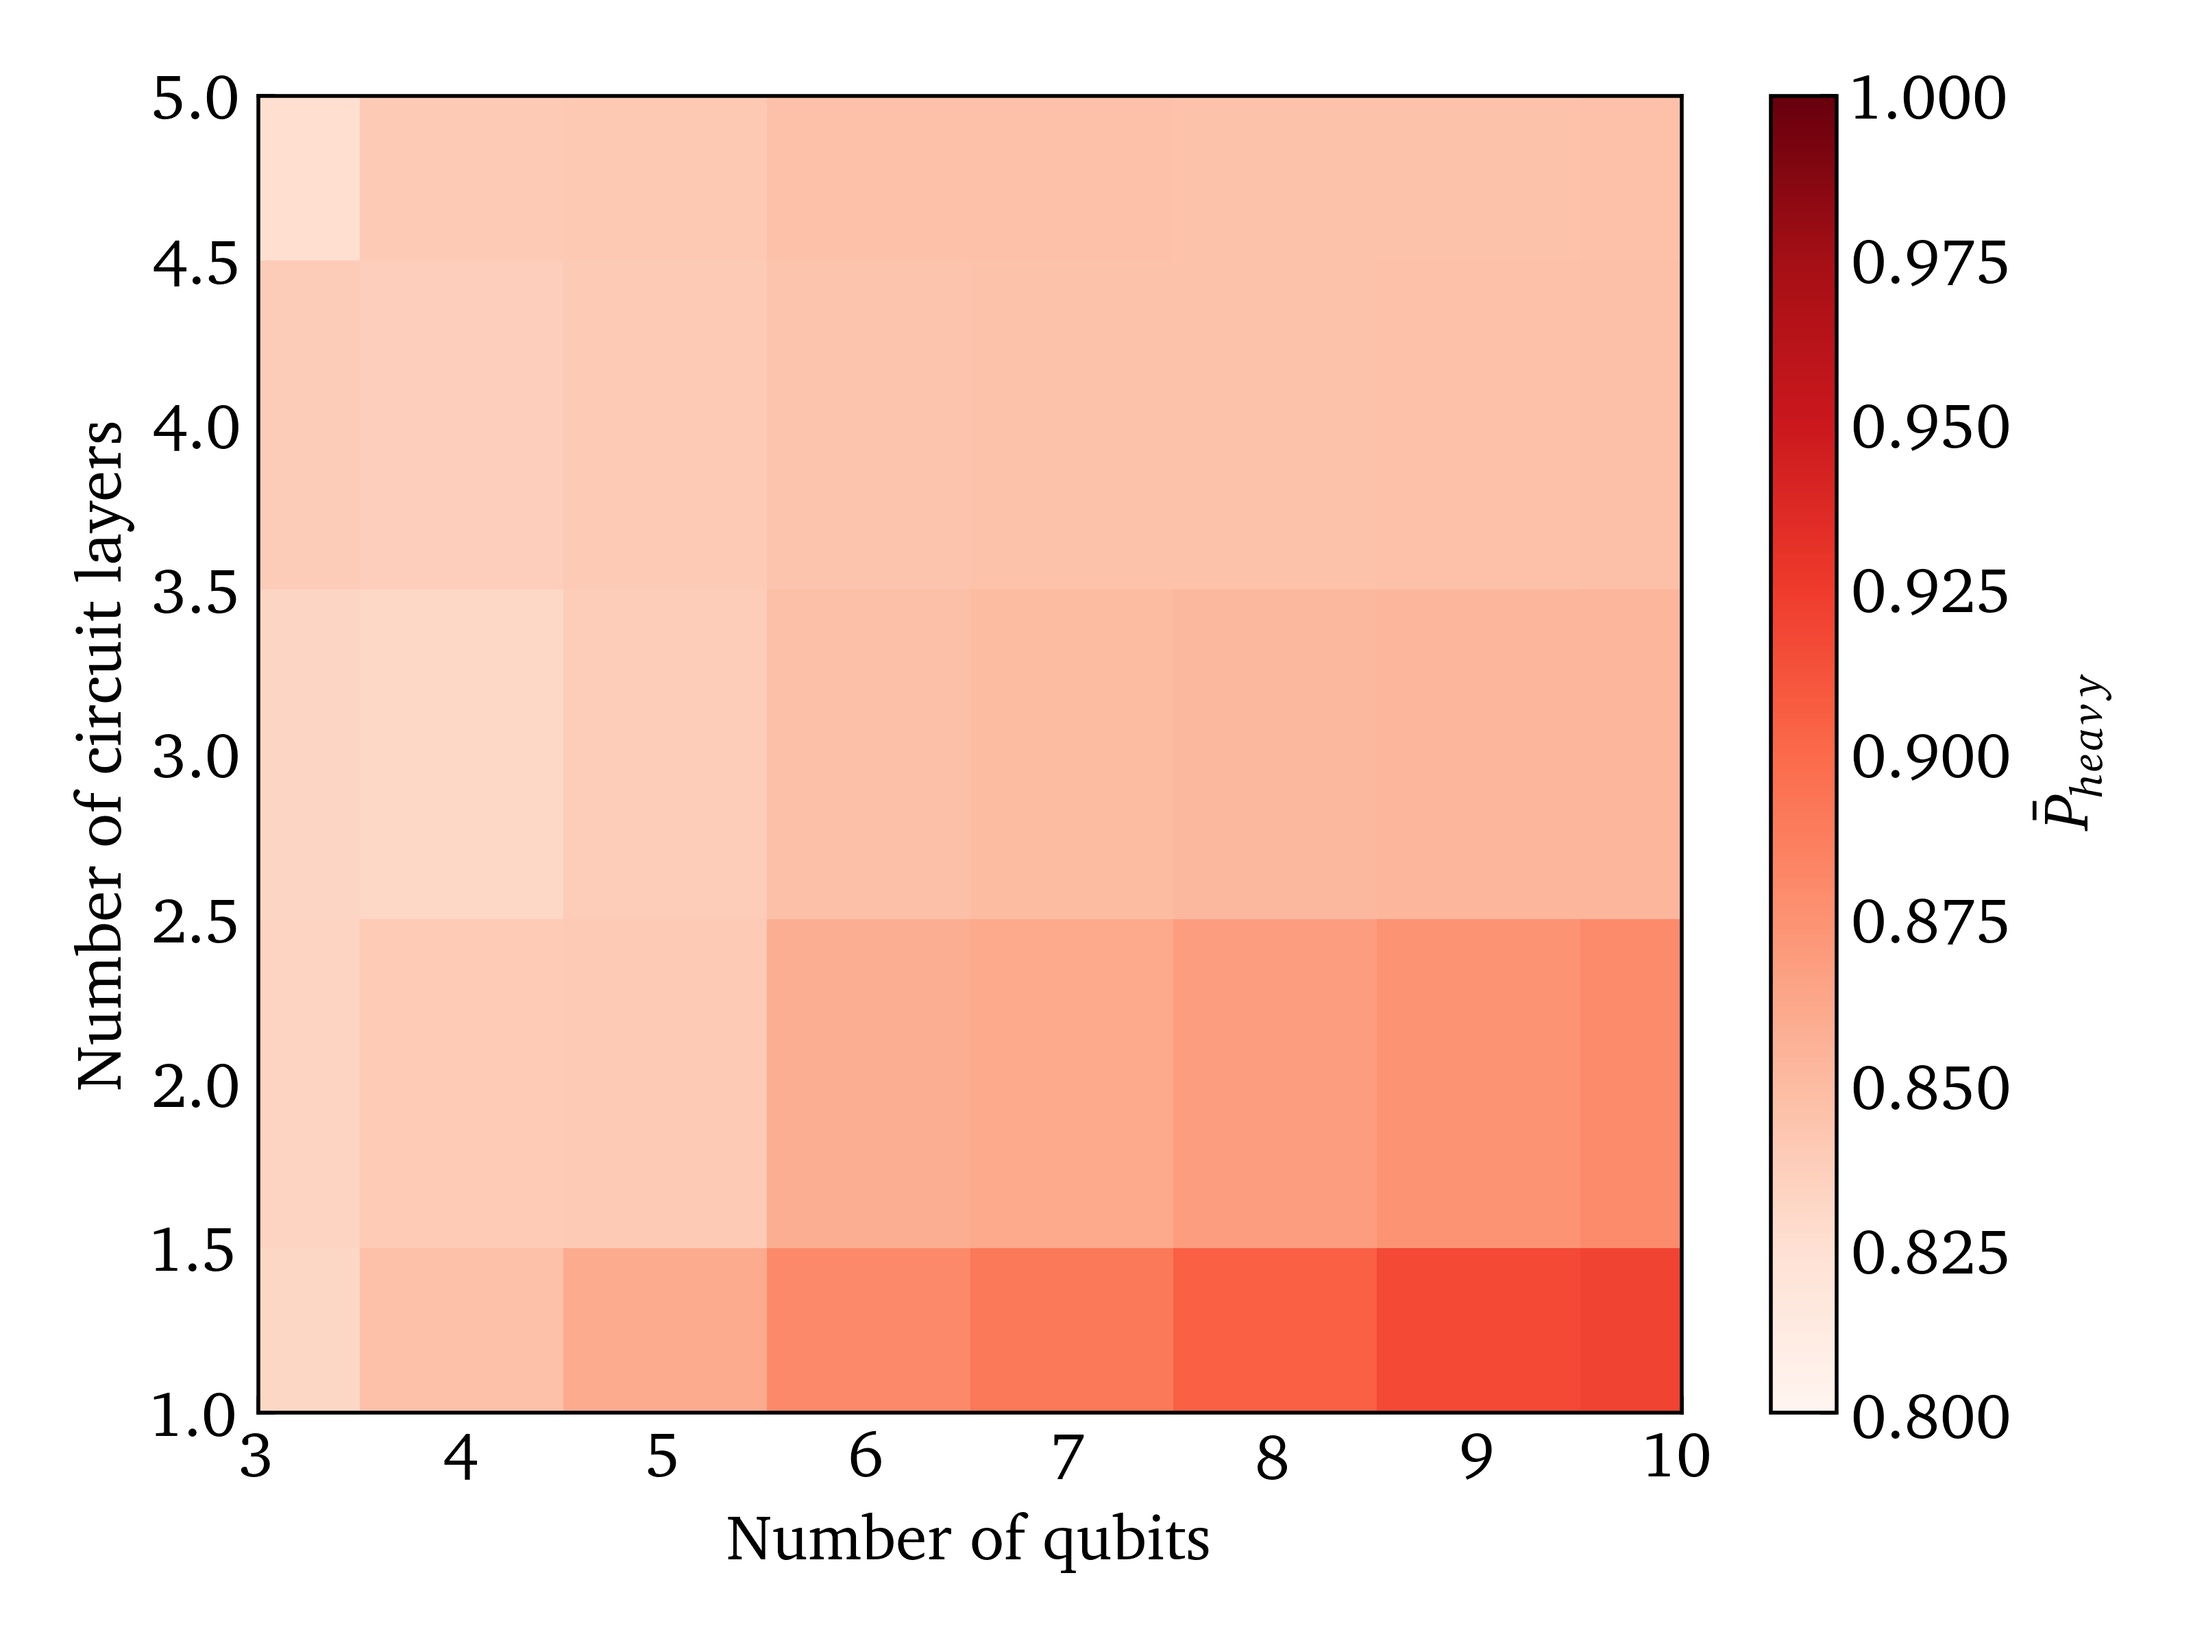
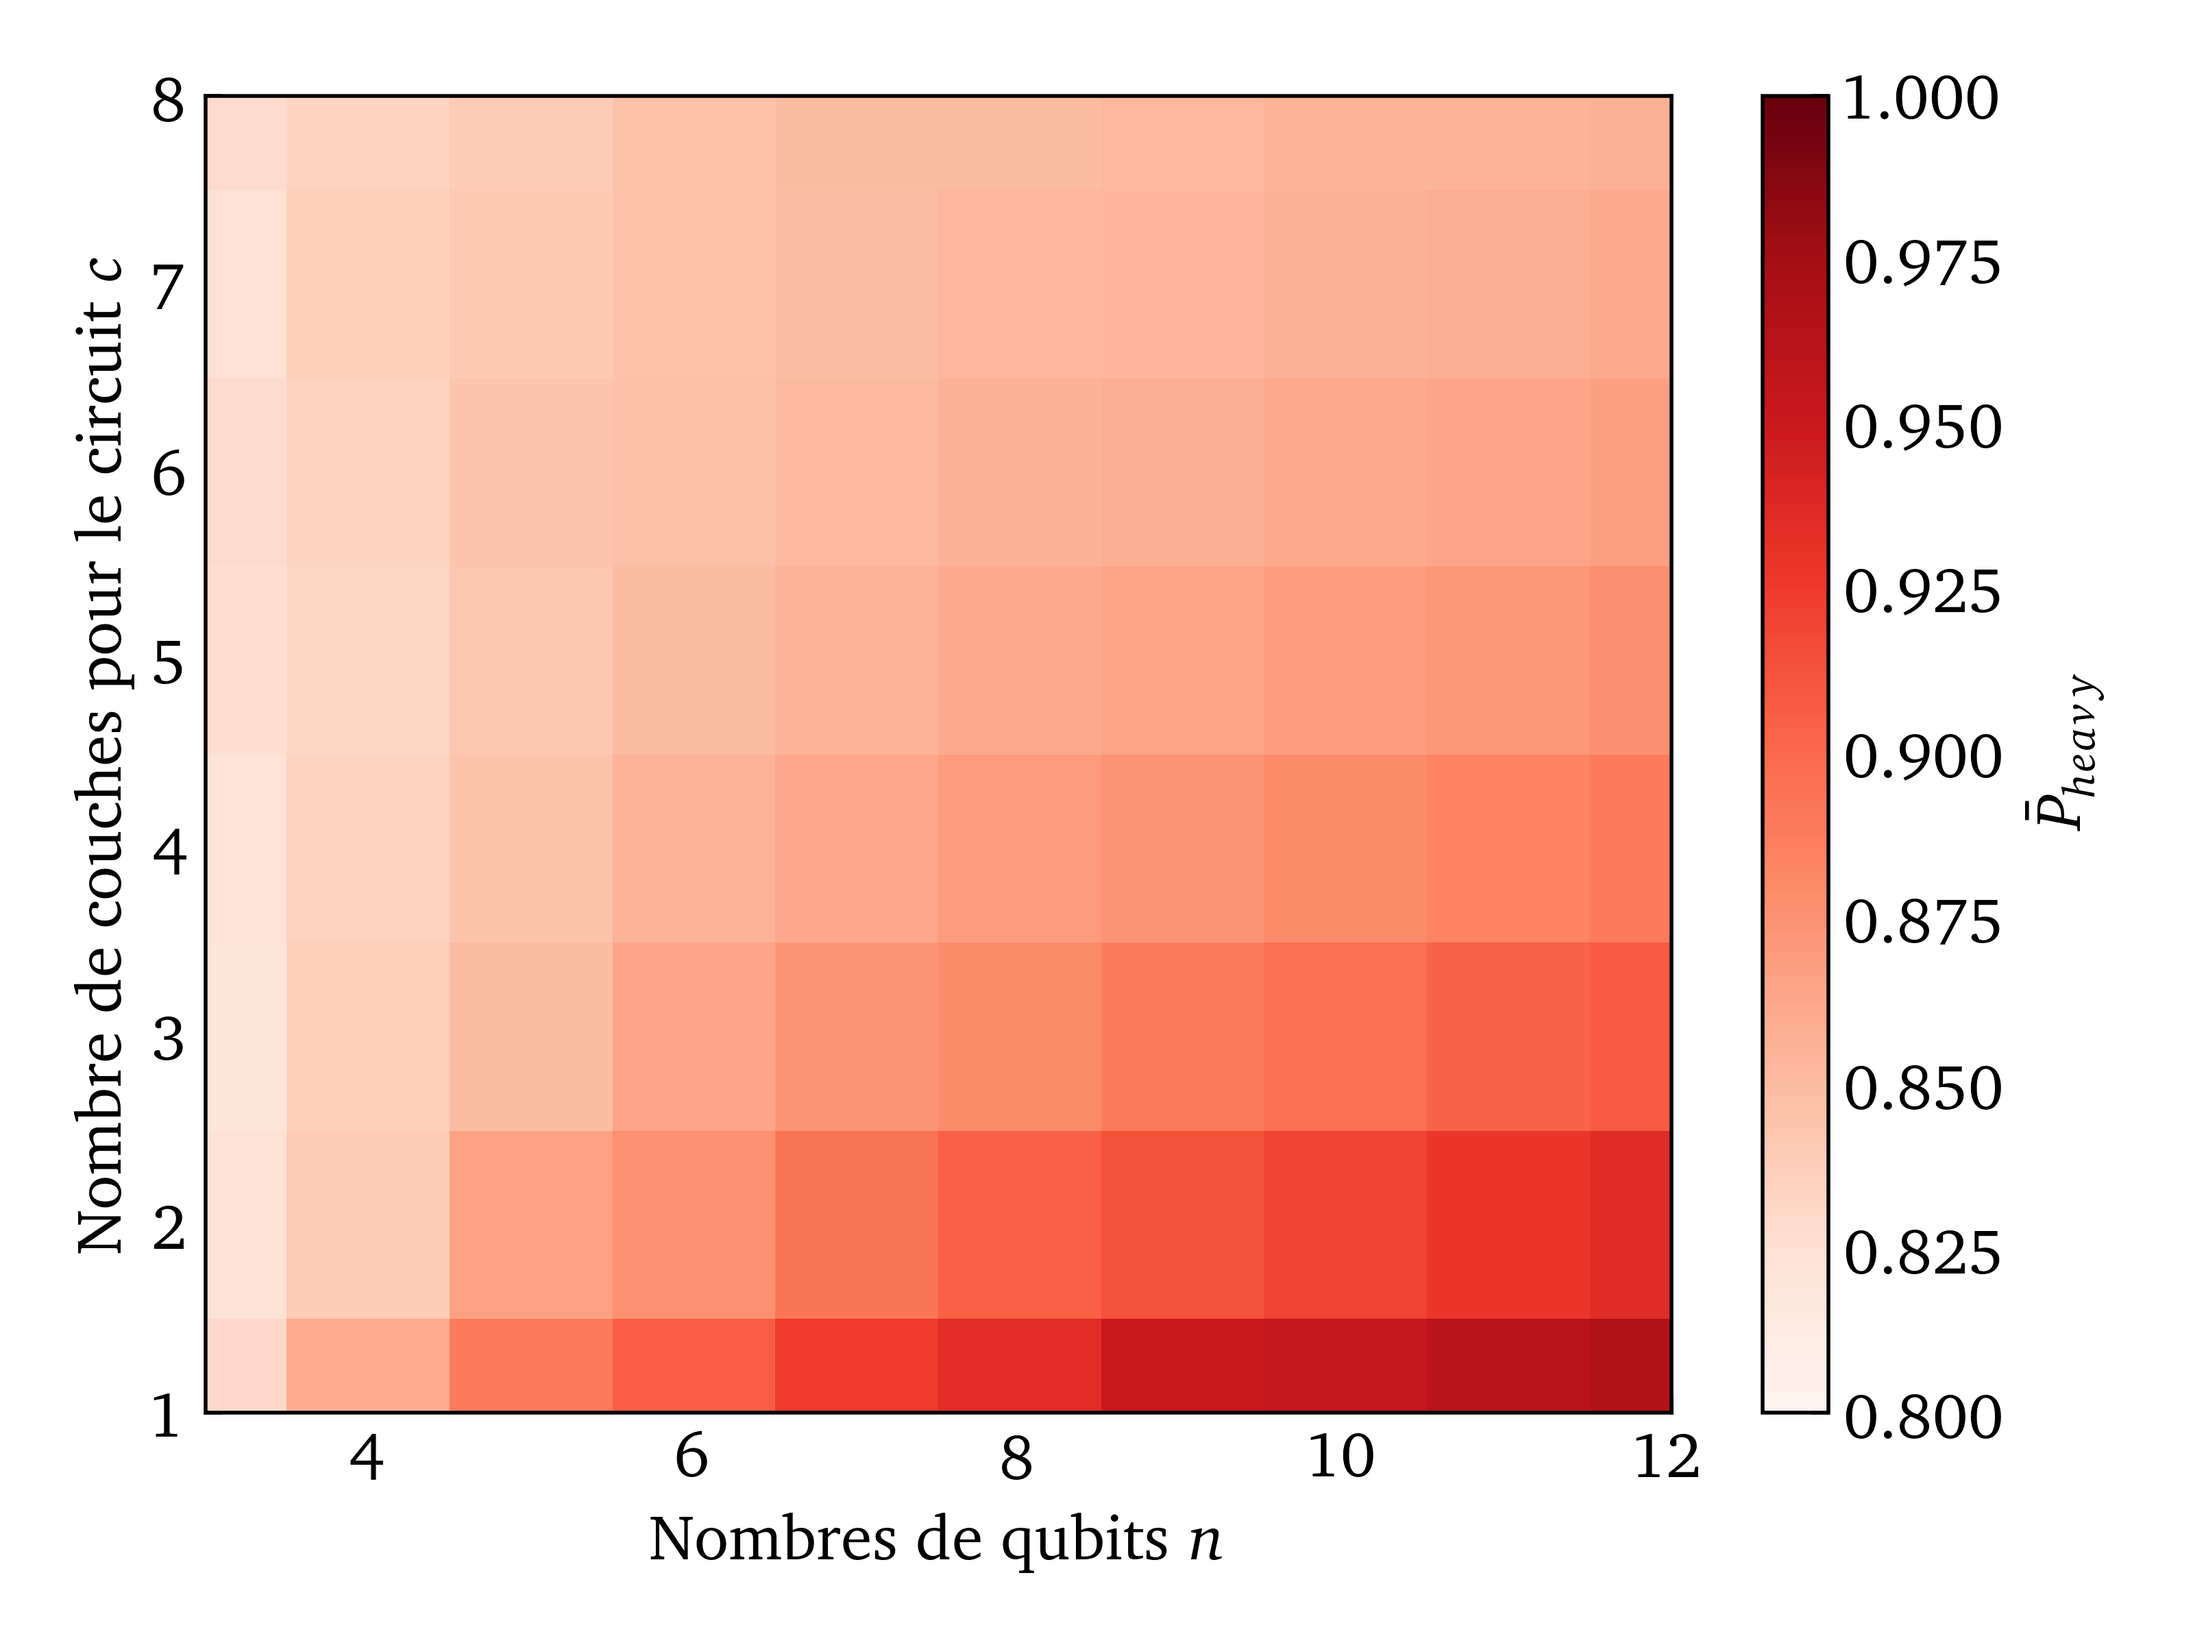
Modified circuits that had some problems and corrected some minor apperance stuff.

diff --git a/tools_for_questions/question16.py b/tools_for_questions/question16.py
@@ -127,7 +127,8 @@ def estimate_mean_P_heavy(
     all_qtm_circ = generate_all_qtm_circ(nbr_circ, nbr_qubits, nbr_layers)
     print(f"All {nbr_circ} quantum circuits generated!")
     p_meds, prob_dicts, job_results = run_job(
-        token, qtm_computer, 
+        token, 
+        qtm_computer, 
         nbr_tirages, 
         all_qtm_circ
     )
@@ -150,8 +151,9 @@ def estimate_mean_P_heavy(
 
     print(
         f"The classical estimation for the mean of P_heavy is " + 
-        f"{class_mean_P_heavy:.4f} with variance {class_var_P_heavy:.4f} " + 
-        f"and the quantum estimation is {qtm_mean_P_heavy:.4f}. \n"
+        f"{class_mean_P_heavy:.5f} with variance {class_var_P_heavy:.5f} " + 
+        f"and the quantum estimation is {qtm_mean_P_heavy:.5f} with quantum " + 
+        f"computer {qtm_computer}. \n"
     )
 
     return class_mean_P_heavy, class_var_P_heavy, qtm_mean_P_heavy
@@ -194,7 +196,7 @@ def plot_caract_mean_P_heavy(
         markersize = 8,
         color = "#7e374e"
     )
-    plt.xlabel(r"Nombre de couches pour le circuit")
+    plt.xlabel(r"Nombre de couches pour le circuit $c$")
     plt.ylabel(r"$\bar{P}_{heavy}$")
     plt.savefig(
         f"{os.path.abspath(os.getcwd())}/figures/question16_figs/" + 
@@ -216,9 +218,6 @@ def run_q16(params: dict) -> None:
         params["c_q16"]
     )
     print("\n Question #16 done. \n")
-    file1 = open(f'mean_P_heavy_{params["N_tirages_q16"]}.txt', 'w')
-    file1.writelines(str(mean_P_heavy_quantities[2]))
-    file1.close()
     return
 
 
@@ -232,7 +231,8 @@ def run_q16_5_bonus(params: dict) -> None:
         params["quantum_computer"],
         params["N_circuits_q16_5_bonus"],
         params["N_tirages_q16_5_bonus"],
-        params["n_q16_5_bonus"])
+        params["n_q16_5_bonus"]
+    )
     plot_caract_mean_P_heavy(params["max_c_q16_5_bonus"], all_mean_P_heavys)
     print("\n Question #16.5 done. \n")
     return

diff --git a/main_project.py b/main_project.py
@@ -53,31 +53,33 @@ params_q7 = {
     "phi_range_q7": (0, np.pi),
     "theta_range_q7": (0, 2 * np.pi),
     "n_q7": 1,
-    "N_q7": 100000
+    "N_q7": 200000
 }
 
-params_q8 = {"n_q8": 4}
+params_q8 = {
+    "n_q8": 4
+}
 
 params_q12 = {
     "n_q12": 10,
-    "max_n_q12_5_bonus": 10,
+    "max_n_q12_5_bonus": 12,
     "N_q12": 10000,
-    "N_q12_5_bonus": 100,
+    "N_q12_5_bonus": 500,
     "c_q12": 5,
-    "max_c_q12_5_bonus": 5
+    "max_c_q12_5_bonus": 8
 }
 
 params_q16 = {
     "n_q16": 10,
-    "n_q16_5_bonus": 6,
-    "N_circuits_q16": 1,
-    "N_circuits_q16_5_bonus": 5,
-    "N_tirages_q16": 10000,
+    "n_q16_5_bonus": 10,
+    "N_circuits_q16": 100,
+    "N_circuits_q16_5_bonus": 500,
+    "N_tirages_q16": 20000,
     "N_tirages_q16_5_bonus": 1000,
     "c_q16": 5,
     "max_c_q16_5_bonus": 5,
     "personnal_token": "insert_here",
-    "quantum_computer": "ibm_osaka"
+    "quantum_computer": "ibmq_qasm_simulator"
 }
 
 ####################################

diff --git a/tools_for_questions/question12.py b/tools_for_questions/question12.py
@@ -95,7 +95,7 @@ def compute_mean_P_heavy(
         mult_layers_qtm_circ = multiply_layers_qtm_circ(nbr_layers, qtm_circ)
         pjs = q8.compute_pjs_one_rand_circ(mult_layers_qtm_circ)[0]
         p_heavys.append(q8.compute_P_heavy(pjs, False))
-        if (_ % 5000 == 0) & (_ != 0):
+        if (_ % 1000 == 0) & (_ != 0):
             print(f"Simulation number {_} done.")
     
     mean_p_heavy = np.mean(p_heavys)
@@ -151,8 +151,8 @@ def color_plot(
     axes.axis(
         [qubit_grid.min(), qubit_grid.max(), layer_grid.min(), layer_grid.max()]
     )
-    axes.set_xlabel("Number of qubits")
-    axes.set_ylabel("Number of circuit layers")    
+    axes.set_xlabel(r"Nombres de qubits $n$")
+    axes.set_ylabel(r"Nombre de couches pour le circuit $c$")    
     figure.tight_layout()
     plt.savefig(
         f"{os.path.abspath(os.getcwd())}/figures/question12_figs/" + 

diff --git a/tools_for_questions/question7.py b/tools_for_questions/question7.py
@@ -108,7 +108,7 @@ def histo_plot(all_z_values: list) -> None:
     """
     plt.hist(all_z_values, bins = 20, color = "#7e374e")
     plt.xlabel(r"$z = \langle Z \rangle$")
-    plt.ylabel("Counts")
+    plt.ylabel("Comptes")
     plt.savefig(
         f"{os.path.abspath(os.getcwd())}/figures/question7_figs/" + 
         "question7_histo.png"
